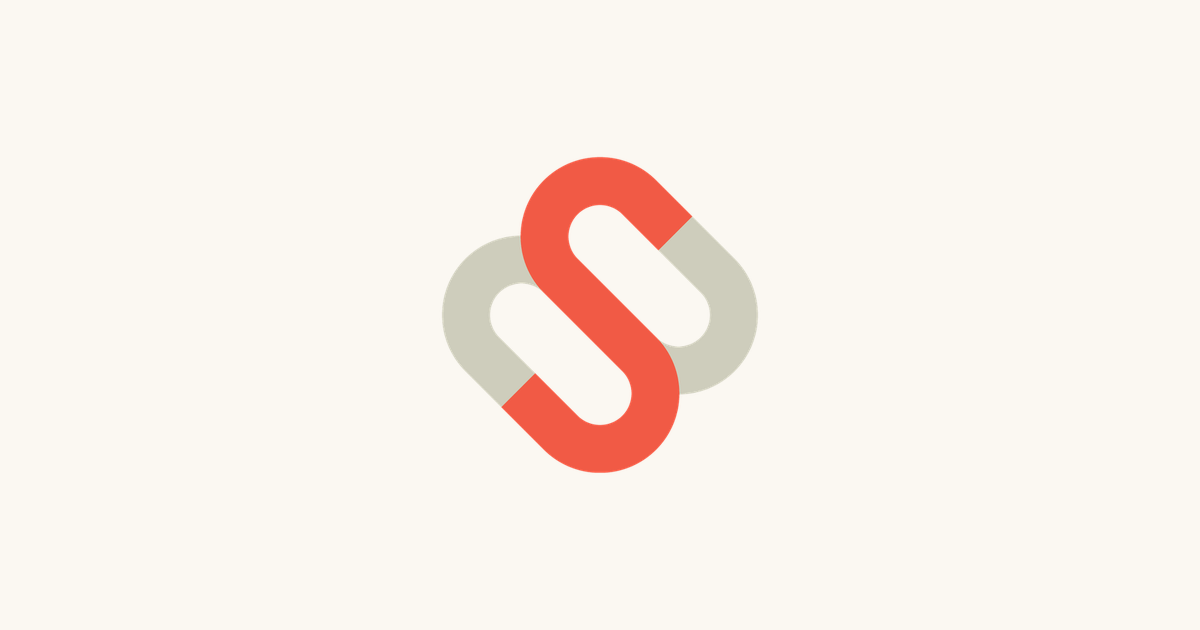
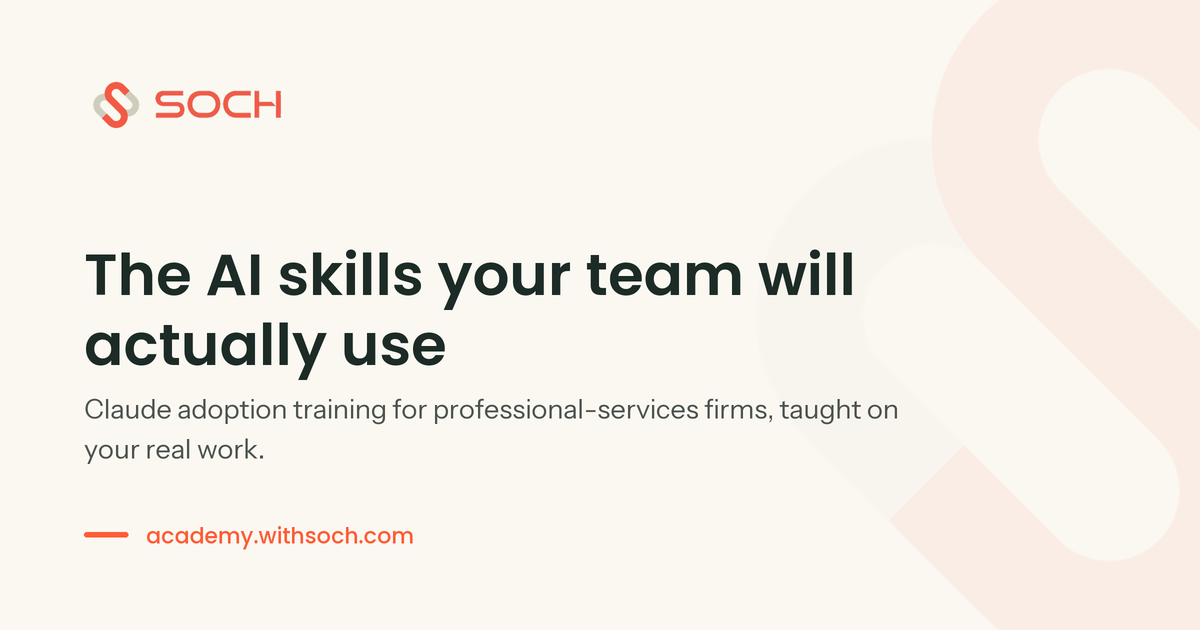
Update: richer OG card, lockup + headline instead of the bare mark
Claude-Session: https://claude.ai/code/session_01U9QMy5fxb6CP346HuqaQZo

diff --git a/ai-setup-day.html b/ai-setup-day.html
@@ -22,12 +22,12 @@
 <meta property="og:image:type" content="image/png">
 <meta property="og:image:width" content="1200">
 <meta property="og:image:height" content="630">
-<meta property="og:image:alt" content="Soch">
+<meta property="og:image:alt" content="Soch, the AI skills your team will actually use">
 <meta name="twitter:card" content="summary_large_image">
 <meta name="twitter:title" content="The 10x Employee AI Workshop, Soch">
 <meta name="twitter:description" content="One on-site day in Tallinn. Claude.ai Team, Projects and Cowork set up across your team, connected to your files, first work delegated before we leave.">
 <meta name="twitter:image" content="https://academy.withsoch.com/assets/og-image.png">
-<meta name="twitter:image:alt" content="Soch">
+<meta name="twitter:image:alt" content="Soch, the AI skills your team will actually use">
 
 <link href="https://fonts.googleapis.com/css2?family=Instrument+Sans:ital,wght@0,400;0,500;0,600;1,400;1,500&family=Poppins:ital,wght@0,400;0,500;0,600;0,700;1,500;1,600;1,700&display=swap" rel="stylesheet">
 <style>

diff --git a/curriculum.html b/curriculum.html
@@ -22,12 +22,12 @@
 <meta property="og:image:type" content="image/png">
 <meta property="og:image:width" content="1200">
 <meta property="og:image:height" content="630">
-<meta property="og:image:alt" content="Soch">
+<meta property="og:image:alt" content="Soch, the AI skills your team will actually use">
 <meta name="twitter:card" content="summary_large_image">
 <meta name="twitter:title" content="Curriculum, Soch Claude Adoption Program">
 <meta name="twitter:description" content="The full Soch curriculum: the one-day AI Fluency Day agenda hour by hour, and the three-day AI Capability Intensive, foundations plus two hands-on build days.">
 <meta name="twitter:image" content="https://academy.withsoch.com/assets/og-image.png">
-<meta name="twitter:image:alt" content="Soch">
+<meta name="twitter:image:alt" content="Soch, the AI skills your team will actually use">
 
 <link rel="stylesheet" href="assets/soch.css">
 </head>

diff --git a/index.html b/index.html
@@ -22,12 +22,12 @@
 <meta property="og:image:type" content="image/png">
 <meta property="og:image:width" content="1200">
 <meta property="og:image:height" content="630">
-<meta property="og:image:alt" content="Soch">
+<meta property="og:image:alt" content="Soch, the AI skills your team will actually use">
 <meta name="twitter:card" content="summary_large_image">
 <meta name="twitter:title" content="Soch, Claude Adoption Program for Tallinn Firms">
 <meta name="twitter:description" content="Get your whole firm fluent in the Claude ecosystem: chat, Projects, Cowork and Skills. Private and delivered live online by Soch, one firm at a time.">
 <meta name="twitter:image" content="https://academy.withsoch.com/assets/og-image.png">
-<meta name="twitter:image:alt" content="Soch">
+<meta name="twitter:image:alt" content="Soch, the AI skills your team will actually use">
 
 <link rel="stylesheet" href="assets/soch.css">
 <style>

diff --git a/pricing.html b/pricing.html
@@ -22,12 +22,12 @@
 <meta property="og:image:type" content="image/png">
 <meta property="og:image:width" content="1200">
 <meta property="og:image:height" content="630">
-<meta property="og:image:alt" content="Soch">
+<meta property="og:image:alt" content="Soch, the AI skills your team will actually use">
 <meta name="twitter:card" content="summary_large_image">
 <meta name="twitter:title" content="Pricing, Soch Claude Adoption Program">
 <meta name="twitter:description" content="Per-participant pricing: the AI Fluency Day at $500 and the AI Capability Intensive at $1250 per participant. Private cohorts, minimum five people per team.">
 <meta name="twitter:image" content="https://academy.withsoch.com/assets/og-image.png">
-<meta name="twitter:image:alt" content="Soch">
+<meta name="twitter:image:alt" content="Soch, the AI skills your team will actually use">
 
 <link rel="stylesheet" href="assets/soch.css">
 </head>

diff --git a/DEPLOYMENT.md b/DEPLOYMENT.md
@@ -81,11 +81,14 @@ Two rules when editing them:
 - **`og:image` and `twitter:image` must be absolute URLs** (`https://academy.withsoch.com/...`).
   Relative paths are silently dropped by most scrapers — this is the single most common
   way to break previews.
-- **`og:image` must be opaque.** The preview card is `assets/og-image.png`, a 1200x630
-  PNG with `assets/logo-mark.png` flattened onto the cream brand background. Do not point
-  `og:image` straight at `logo-mark.png`: it is a 512x512 RGBA file, and transparency
-  renders as black on WhatsApp and Slack dark mode. Regenerate the card by re-flattening
-  the mark, never by dropping the alpha channel.
+- **`og:image` must be opaque.** The preview card is `assets/og-image.png`: 1200x630,
+  cream (`--cream`) background, `logo-lockup.png` top left, the headline in Poppins
+  SemiBold, a line of Instrument Sans body copy, the domain in `--brand`, and
+  `logo-mark.png` ghosted at 7% opacity bleeding off the right edge. Rendered at 2x and
+  downsampled so the type stays crisp. Do not point `og:image` straight at
+  `logo-mark.png`: it is a 512x512 RGBA file, and transparency renders as black on
+  WhatsApp and Slack dark mode. Any replacement must be flattened onto a solid
+  background, never just stripped of its alpha channel.
 
 `favicon.ico` at the repo root is deliberate — some crawlers and older clients request
 `/favicon.ico` blindly, ignoring the `<link>` tags. Vercel serves static files before
